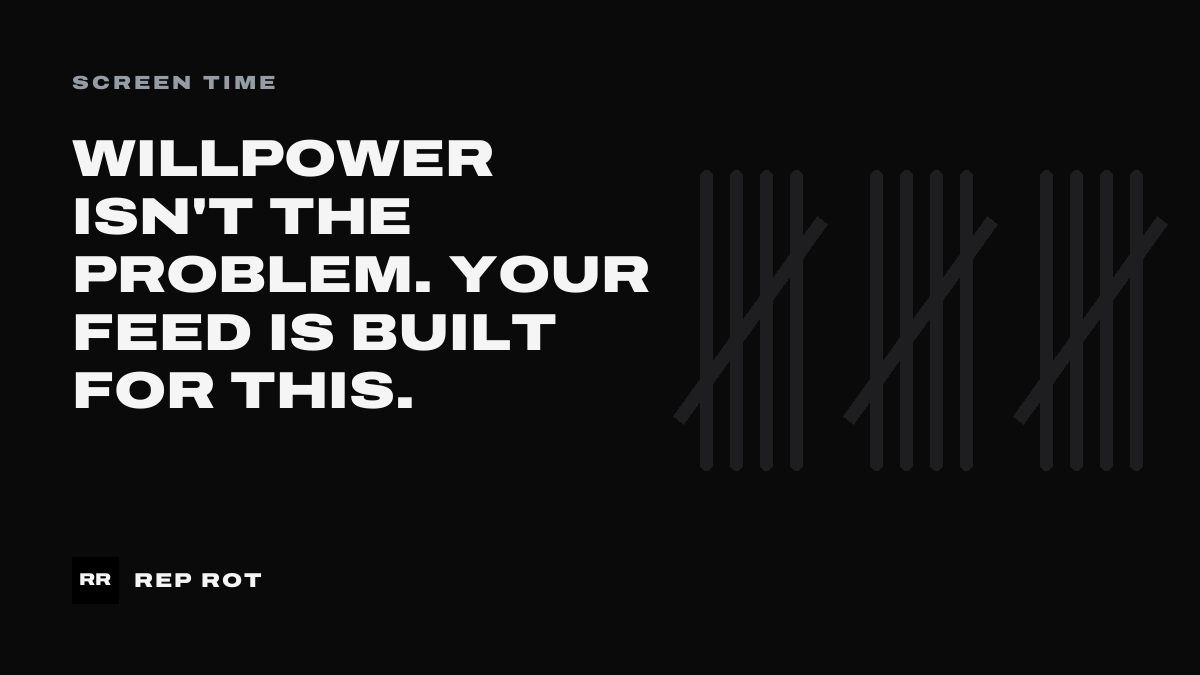
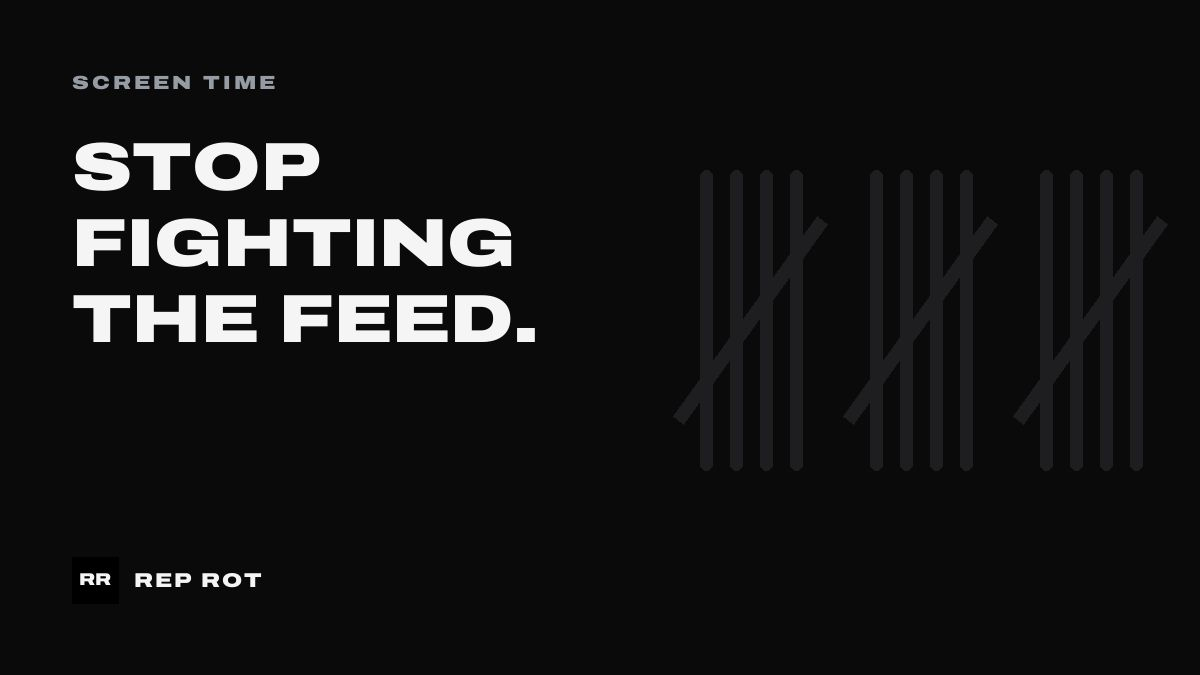
Willpower cover: 'Stop fighting the feed.' instead of repeating the title

Changed region(s): [[0.0617, 0.1867, 0.555, 0.6222]]

diff --git a/blog-src/posts/willpower-isnt-the-problem.html b/blog-src/posts/willpower-isnt-the-problem.html
@@ -4,6 +4,7 @@ description: Why you can't stop scrolling even when you want to, and why the ans
 date: 2026-10-29
 tags: Screen Time, Habits, Motivation
 cover: plain
+cover_text: Stop fighting the feed.
 -->
 <p>A Reel has been going around with a few hundred thousand likes. A webcam, a window, no music, no jump cuts. Just this:</p>
 

diff --git a/blog-src/build_blog.py b/blog-src/build_blog.py
@@ -87,6 +87,7 @@ def parse(path):
         "date": datetime.date.fromisoformat(meta["date"]),
         "tags": tags,
         "cover": cover,
+        "cover_text": meta.get("cover_text") or meta["title"],
         "body": body,
         "minutes": max(1, math.ceil(words / 230)),
     }
@@ -155,7 +156,7 @@ def make_cover(post, path):
 
     tracked(draw, (pad, pad), post["tags"][0].upper(), font(19), (150, 156, 163), 3)
 
-    title = post["title"].upper()
+    title = post["cover_text"].upper()
     for size in range(68, 30, -2):
         fnt = font(size)
         lines = wrap(draw, title, fnt, text_w)
